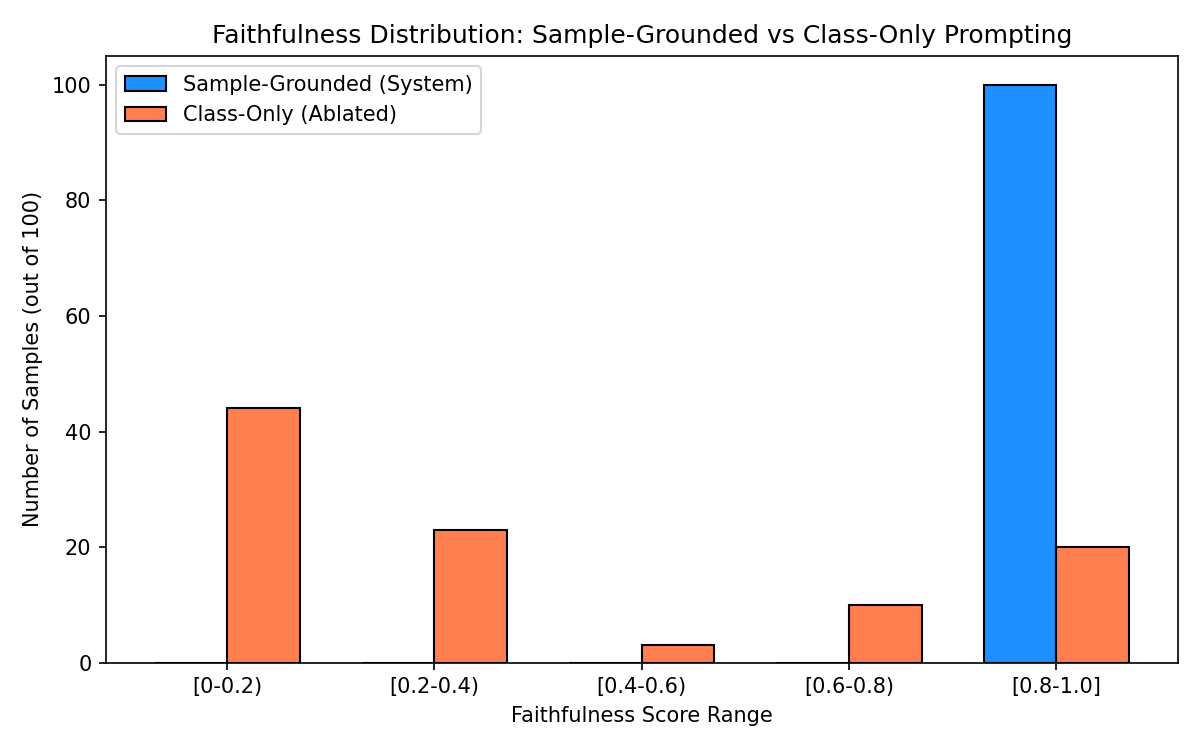
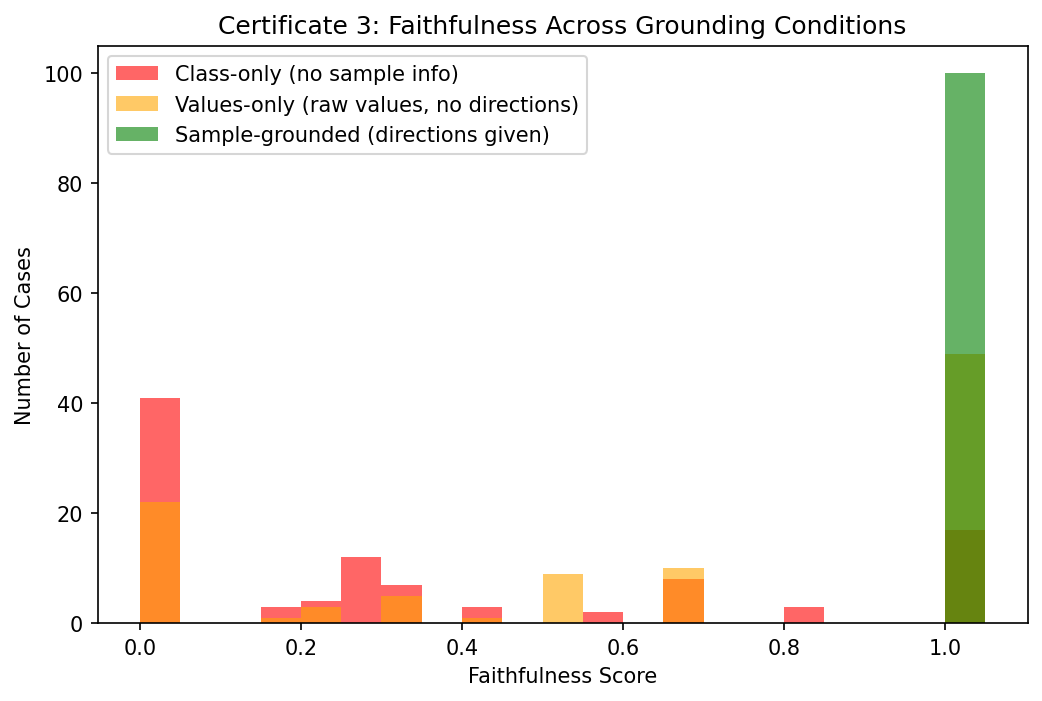
update files

diff --git a/scripts/compare_conditions.py b/scripts/compare_conditions.py
@@ -1,0 +1,78 @@
+# scripts/compare_conditions.py
+import json
+import matplotlib
+matplotlib.use("Agg")
+import matplotlib.pyplot as plt
+import numpy as np
+from pathlib import Path
+
+repo = Path(__file__).resolve().parent.parent
+
+with open(repo / "outputs/faithfulness_audit.json") as f:
+    sg = json.load(f)
+with open(repo / "outputs/faithfulness_audit_classonly.json") as f:
+    co = json.load(f)
+with open(repo / "outputs/faithfulness_audit_valuesonly.json") as f:
+    vo = json.load(f)
+
+def summary(cases, label):
+    fids = [c["faithfulness"] for c in cases]
+    rel = sum(1 for c in cases if c["gate_decision"] == "RELEASE")
+    mw = sum(1 for c in cases if len(c.get("mechanism_warnings", [])) > 0)
+    mean_val = np.mean(fids)
+    median_val = np.median(fids)
+    std_val = np.std(fids)
+    min_val = min(fids)
+    rel_pct = 100 * rel / len(cases)
+    esc_pct = 100 * (len(cases) - rel) / len(cases)
+    esc = len(cases) - rel
+    print(f"| {label} | {mean_val:.4f} | {median_val:.4f} | {std_val:.4f} | {min_val:.4f} | {rel}/{len(cases)} ({rel_pct:.0f}%) | {esc}/{len(cases)} ({esc_pct:.0f}%) | {mw}/{len(cases)} |")
+    return fids
+
+print("| Condition | Mean | Median | Std | Min | RELEASE | ESCALATE | Mech Warnings |")
+print("|---|---|---|---|---|---|---|---|")
+sg_f = summary(sg, "Sample-grounded")
+co_f = summary(co, "Class-only")
+vo_f = summary(vo, "Values-only")
+
+# Figure: overlaid histograms
+fig, ax = plt.subplots(figsize=(8, 5))
+bins = np.linspace(0, 1.05, 22)
+ax.hist(co_f, bins=bins, alpha=0.6, label="Class-only (no sample info)", color="red")
+ax.hist(vo_f, bins=bins, alpha=0.6, label="Values-only (raw values, no directions)", color="orange")
+ax.hist(sg_f, bins=bins, alpha=0.6, label="Sample-grounded (directions given)", color="green")
+ax.set_xlabel("Faithfulness Score")
+ax.set_ylabel("Number of Cases")
+ax.set_title("Certificate 3: Faithfulness Across Grounding Conditions")
+ax.legend()
+fig.savefig(repo / "outputs/audit_condition_comparison.png", dpi=150, bbox_inches="tight")
+print(f"\nFigure saved to outputs/audit_condition_comparison.png")
+
+# Save summary JSON
+summary_json = {
+    "sample_grounded": {
+        "mean": float(np.mean(sg_f)),
+        "median": float(np.median(sg_f)),
+        "std": float(np.std(sg_f)),
+        "min": float(min(sg_f)),
+        "release_rate": float(sum(1 for c in sg if c["gate_decision"] == "RELEASE") / len(sg))
+    },
+    "class_only": {
+        "mean": float(np.mean(co_f)),
+        "median": float(np.median(co_f)),
+        "std": float(np.std(co_f)),
+        "min": float(min(co_f)),
+        "release_rate": float(sum(1 for c in co if c["gate_decision"] == "RELEASE") / len(co))
+    },
+    "values_only": {
+        "mean": float(np.mean(vo_f)),
+        "median": float(np.median(vo_f)),
+        "std": float(np.std(vo_f)),
+        "min": float(min(vo_f)),
+        "release_rate": float(sum(1 for c in vo if c["gate_decision"] == "RELEASE") / len(vo))
+    },
+}
+
+with open(repo / "outputs/condition_comparison_summary.json", "w") as f:
+    json.dump(summary_json, f, indent=2)
+print("Saved summary JSON to outputs/condition_comparison_summary.json")
